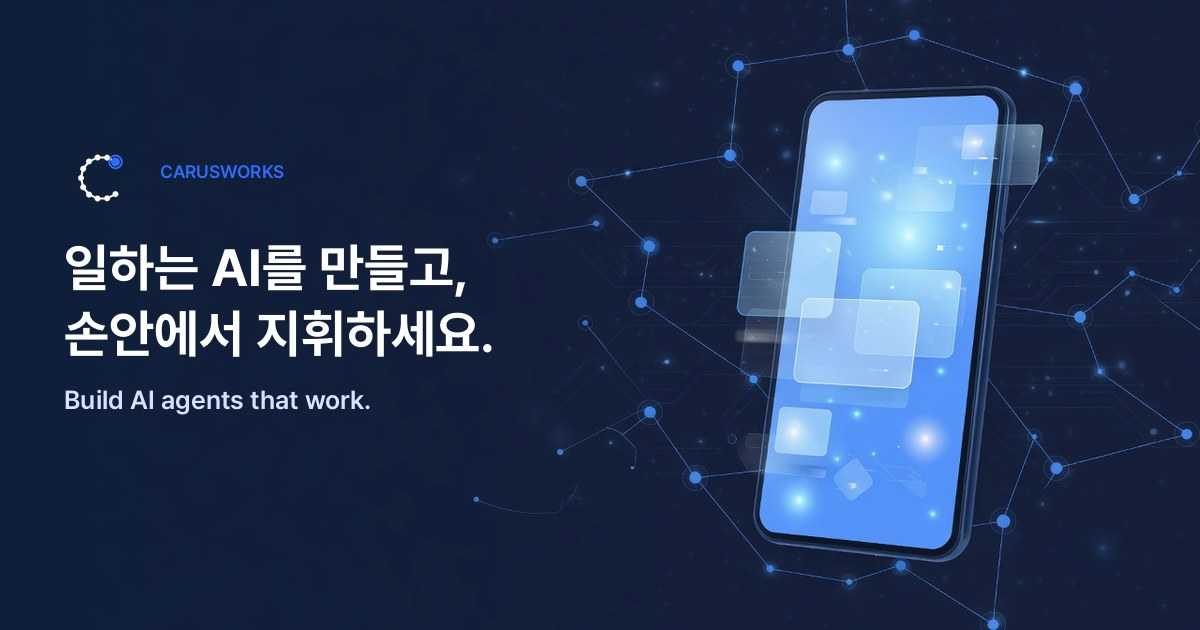
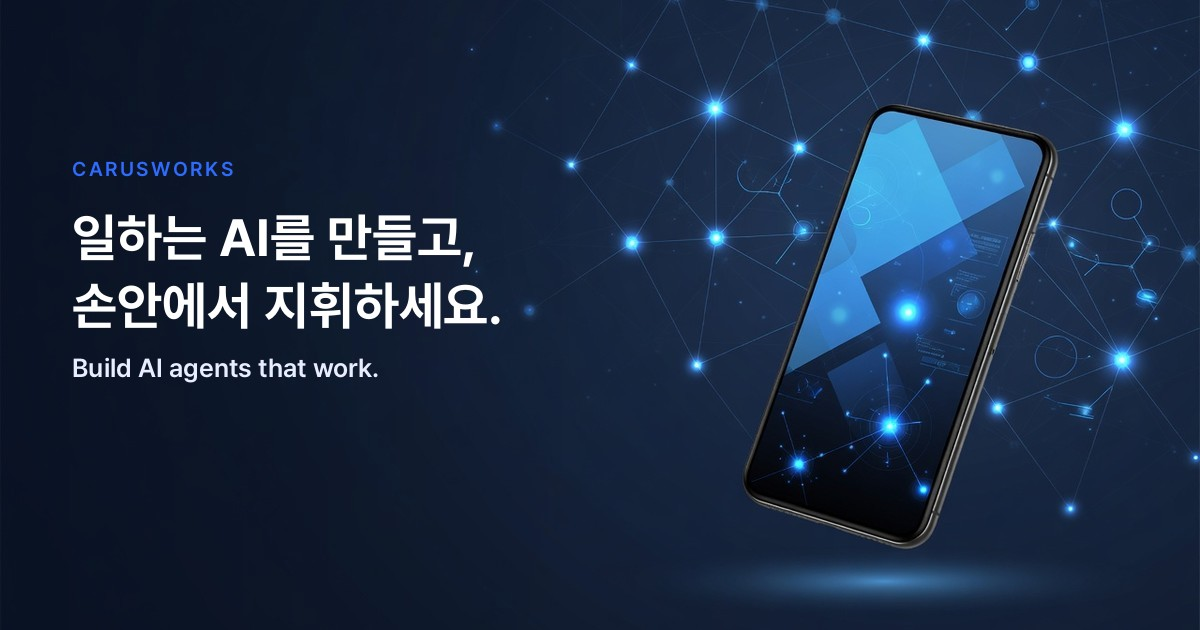
landing: 만든 영상과 이미지를 첫 화면에 넣는다
히어로는 10초 루프, 카드 3장은 4:3, 도입 아이콘 4종과 로고 A안을 본문에 연결한다. OG는 새 플레이트 왼쪽에 헤드라인을 얹는다.

diff --git a/index.html b/index.html
@@ -26,7 +26,7 @@
 <link rel="stylesheet" href="https://cdn.jsdelivr.net/gh/orioncactus/pretendard@v1.3.9/dist/web/variable/pretendardvariable-dynamic-subset.min.css">
 <link href="https://fonts.googleapis.com/css2?family=JetBrains+Mono:wght@500;700&display=swap" rel="stylesheet">
 <script type="application/ld+json">
-{"@context":"https://schema.org","@type":"Organization","name":"carusworks","alternateName":"카루스웍스","url":"https://carusworks.com/","logo":"https://carusworks.com/assets/brand/mark.svg","email":"contact@carusworks.com","description":"공공기관, 기업, 소상공인을 위한 맞춤형 AI 에이전틱 솔루션.","subOrganization":[{"@type":"Organization","name":"carusworks AS","url":"https://ncaman.github.io/carusworks-AS/"},{"@type":"Organization","name":"carusworks SMOS","url":"https://ncaman.github.io/carusworks-SMOS/"}]}
+{"@context":"https://schema.org","@type":"Organization","name":"carusworks","alternateName":"카루스웍스","url":"https://carusworks.com/","logo":"https://carusworks.com/assets/brand/logo-a.png","email":"contact@carusworks.com","description":"공공기관, 기업, 소상공인을 위한 맞춤형 AI 에이전틱 솔루션.","subOrganization":[{"@type":"Organization","name":"carusworks AS","url":"https://ncaman.github.io/carusworks-AS/"},{"@type":"Organization","name":"carusworks SMOS","url":"https://ncaman.github.io/carusworks-SMOS/"}]}
 </script>
 <style>
 *{margin:0;padding:0;box-sizing:border-box}
@@ -53,7 +53,7 @@ button{background:none;border:0;cursor:pointer}
 .topbar.solid,.topbar:has(#sitenav.open){background:#fff;border-bottom-color:var(--line)}
 .topbar .inner{width:min(var(--max),calc(100% - 32px));margin:0 auto;display:flex;align-items:center;gap:20px}
 .logo{display:inline-flex;align-items:center;gap:10px;font-family:"Pretendard Variable",Pretendard,sans-serif;font-weight:750;letter-spacing:-.03em;font-size:18px;color:var(--navy)}
-.logo .mark{width:28px;height:28px;display:block}
+.logo .mark{height:40px;width:auto;display:block}
 #sitenav{margin-left:auto;display:flex;align-items:center;gap:18px;font-size:14px;font-weight:650}
 #sitenav > a{color:var(--dim)}
 #sitenav > a:hover{color:var(--ink)}
@@ -91,7 +91,7 @@ button{background:none;border:0;cursor:pointer}
 .cards{display:grid;grid-template-columns:repeat(3,1fr);gap:16px}
 .card{background:#fff;border:1px solid var(--line);padding:24px;display:flex;flex-direction:column;gap:12px;min-width:0}
 .cards .card{padding:0;gap:0;overflow:hidden}
-.cardshot{width:100%;aspect-ratio:3/2;object-fit:cover;object-position:center 28%}
+.cardshot{width:100%;aspect-ratio:4/3;object-fit:cover;object-position:center}
 .card .pad{padding:20px 24px 24px;display:flex;flex-direction:column;gap:12px;flex:1;min-width:0}
 .band .card{background:#fff}
 .card h3{font-size:22px;line-height:1.35;letter-spacing:-.03em;font-weight:750}
@@ -103,7 +103,7 @@ button{background:none;border:0;cursor:pointer}
 
 .steps{display:grid;grid-template-columns:repeat(4,1fr);gap:16px}
 .step{border-top:2px solid var(--blue);padding-top:16px}
-.ico{width:32px;height:32px;display:block;margin-bottom:12px}
+.ico{width:56px;height:56px;display:block;margin-bottom:12px}
 .step b{display:block;font-family:"JetBrains Mono",monospace;font-size:12px;letter-spacing:.08em;color:var(--navy);margin-bottom:8px}
 .step h3{font-size:18px;letter-spacing:-.02em;margin-bottom:8px}
 .step p{color:var(--dim);font-size:14.5px}
@@ -222,7 +222,7 @@ footer a:hover{color:#fff}
 <a class="skip" href="#main">본문으로</a>
 <header class="topbar" id="topbar">
   <div class="inner">
-    <a class="logo" href="#top"><img class="mark" src="assets/brand/mark.svg" alt="" width="28" height="28">carusworks</a>
+    <a class="logo" href="#top"><img class="mark" src="assets/brand/logo-a.png" alt="carusworks" width="818" height="301"></a>
     <button class="burger" type="button" aria-label="메뉴 열기" aria-expanded="false" aria-controls="sitenav"><span></span><span></span><span></span></button>
     <nav id="sitenav">
       <a href="#solutions">솔루션</a>
@@ -249,11 +249,11 @@ footer a:hover{color:#fff}
       </div>
     </div>
     <figure class="film">
-      <video class="hero-film" autoplay muted loop playsinline poster="assets/brand/hero-poster.jpg" width="848" height="480">
-        <source src="assets/brand/hero.webm" type="video/webm">
-        <source src="assets/brand/hero.mp4" type="video/mp4">
+      <video class="hero-film" autoplay muted loop playsinline poster="assets/library/04-hero.jpg" width="848" height="480">
+        <source src="assets/library/04-hero.webm" type="video/webm">
+        <source src="assets/library/04-hero.mp4" type="video/mp4">
       </video>
-      <img class="hero-still" src="assets/brand/hero-poster.jpg" alt="" width="1280" height="720">
+      <img class="hero-still" src="assets/library/04-hero.jpg" alt="" width="1280" height="720">
       <figcaption>휴대폰으로 에이전트 작업을 보고 승인하는 장면입니다. 글자가 있는 화면 예시는 아래 모바일 제어에 있습니다.</figcaption>
     </figure>
   </div>
@@ -278,7 +278,7 @@ footer a:hover{color:#fff}
     <p class="sub">같은 에이전틱 엔진 위에, 공공·기업·개인의 업무 방식에 맞춘 세 가지 솔루션을 만듭니다.</p>
     <div class="cards">
       <article class="card">
-        <img class="cardshot" src="assets/brand/b2g.jpg" alt="밝은 민원 창구에서 담당자가 휴대폰으로 업무를 검토하는 장면" width="1248" height="832">
+        <img class="cardshot" src="assets/library/05-b2g.jpg" alt="밝은 민원 창구에서 담당자가 휴대폰으로 업무를 검토하는 장면" width="1109" height="832">
         <div class="pad">
         <p class="kicker">B2G</p>
         <h3>민원과 행정, 에이전트가 먼저 처리합니다.</h3>
@@ -293,7 +293,7 @@ footer a:hover{color:#fff}
         </div>
       </article>
       <article class="card">
-        <img class="cardshot" src="assets/brand/b2b.jpg" alt="유리 사무실을 걸으며 휴대폰으로 업무 현황을 보는 관리자" width="1248" height="832">
+        <img class="cardshot" src="assets/library/06-b2b.jpg" alt="유리 사무실을 걸으며 휴대폰으로 업무 현황을 보는 관리자" width="1109" height="832">
         <div class="pad">
         <p class="kicker">B2B</p>
         <h3>팀 하나만큼 일하는 AI 스태프.</h3>
@@ -308,7 +308,7 @@ footer a:hover{color:#fff}
         </div>
       </article>
       <article class="card">
-        <img class="cardshot" src="assets/brand/b2c.jpg" alt="빵집 카운터에서 사장님이 거치된 태블릿에 말하는 장면" width="1248" height="832">
+        <img class="cardshot" src="assets/library/07-b2c.jpg" alt="빵집 카운터에서 사장님이 거치된 태블릿에 말하는 장면" width="1109" height="832">
         <div class="pad">
         <p class="kicker">B2C</p>
         <h3>태블릿 한 대, 말 한마디로 가게 운영.</h3>
@@ -403,10 +403,10 @@ footer a:hover{color:#fff}
     <h2>상담부터 이양까지, 네 단계.</h2>
     <p class="en">From briefing to handover, in four steps.</p>
     <div class="steps" style="margin-top:32px">
-      <article class="step"><svg class="ico" viewBox="0 0 32 32" fill="none" aria-hidden="true"><circle cx="10" cy="11" r="6.5" stroke="#0B1F3A" stroke-width="2"/><path d="M14.6 15.6 19 20" stroke="#2F6BFF" stroke-width="2" stroke-linecap="round"/><rect x="16" y="22" width="6" height="6" rx="1.2" stroke="#0B1F3A" stroke-width="2"/><rect x="24" y="22" width="6" height="6" rx="1.2" stroke="#0B1F3A" stroke-width="2"/><path d="M22 25h2" stroke="#2F6BFF" stroke-width="2" stroke-linecap="round"/></svg><b>01</b><h3>업무 진단</h3><p>어떤 일을 에이전트에게 맡길지 함께 고릅니다.</p></article>
-      <article class="step"><svg class="ico" viewBox="0 0 32 32" fill="none" aria-hidden="true"><rect x="4" y="23" width="24" height="5" rx="1.2" stroke="#0B1F3A" stroke-width="2"/><rect x="8" y="14" width="16" height="5" rx="1.2" stroke="#0B1F3A" stroke-width="2"/><rect x="11" y="5" width="10" height="5" rx="1.2" stroke="#2F6BFF" stroke-width="2"/></svg><b>02</b><h3>설계·개발</h3><p>검증된 모듈과 템플릿 위에 맞춤형으로 쌓습니다.</p></article>
-      <article class="step"><svg class="ico" viewBox="0 0 32 32" fill="none" aria-hidden="true"><rect x="2" y="12" width="7" height="8" rx="1.5" stroke="#0B1F3A" stroke-width="2"/><path d="M9 14.5h3.2M9 17.5h3.2" stroke="#0B1F3A" stroke-width="2" stroke-linecap="round"/><path d="M12.2 16h7.6" stroke="#2F6BFF" stroke-width="2" stroke-linecap="round"/><path d="M19.8 14.5H23M19.8 17.5H23" stroke="#0B1F3A" stroke-width="2" stroke-linecap="round"/><rect x="23" y="12" width="7" height="8" rx="1.5" stroke="#0B1F3A" stroke-width="2"/></svg><b>03</b><h3>연동·테스트</h3><p>기존 시스템과 연결하고 승인 흐름을 점검합니다. 점검은 모바일 화면에서도 합니다.</p></article>
-      <article class="step"><svg class="ico" viewBox="0 0 32 32" fill="none" aria-hidden="true"><circle cx="8" cy="16" r="3.4" stroke="#0B1F3A" stroke-width="2"/><circle cx="8" cy="16" r="1.2" fill="#2F6BFF"/><path d="M11.4 16h6" stroke="#0B1F3A" stroke-width="2" stroke-linecap="round"/><path d="M14.2 16v2.8M17.4 16v2" stroke="#0B1F3A" stroke-width="2" stroke-linecap="round"/><path d="M20 16h4" stroke="#2F6BFF" stroke-width="2" stroke-linecap="round"/><path d="M22.4 13.6 26 16l-3.6 2.4" stroke="#2F6BFF" stroke-width="2" stroke-linecap="round" stroke-linejoin="round"/></svg><b>04</b><h3>이양·운영</h3><p>코드, 채널, 디바이스의 소유를 고객에게 넘기고 필요한 만큼만 지원합니다.</p></article>
+      <article class="step"><img class="ico" src="assets/brand/ico-diagnosis.png" alt="" width="56" height="56"><b>01</b><h3>업무 진단</h3><p>어떤 일을 에이전트에게 맡길지 함께 고릅니다.</p></article>
+      <article class="step"><img class="ico" src="assets/brand/ico-build.png" alt="" width="56" height="56"><b>02</b><h3>설계·개발</h3><p>검증된 모듈과 템플릿 위에 맞춤형으로 쌓습니다.</p></article>
+      <article class="step"><img class="ico" src="assets/brand/ico-integrate.png" alt="" width="56" height="56"><b>03</b><h3>연동·테스트</h3><p>기존 시스템과 연결하고 승인 흐름을 점검합니다. 점검은 모바일 화면에서도 합니다.</p></article>
+      <article class="step"><img class="ico" src="assets/brand/ico-handover.png" alt="" width="56" height="56"><b>04</b><h3>이양·운영</h3><p>코드, 채널, 디바이스의 소유를 고객에게 넘기고 필요한 만큼만 지원합니다.</p></article>
     </div>
   </div>
 </section>
